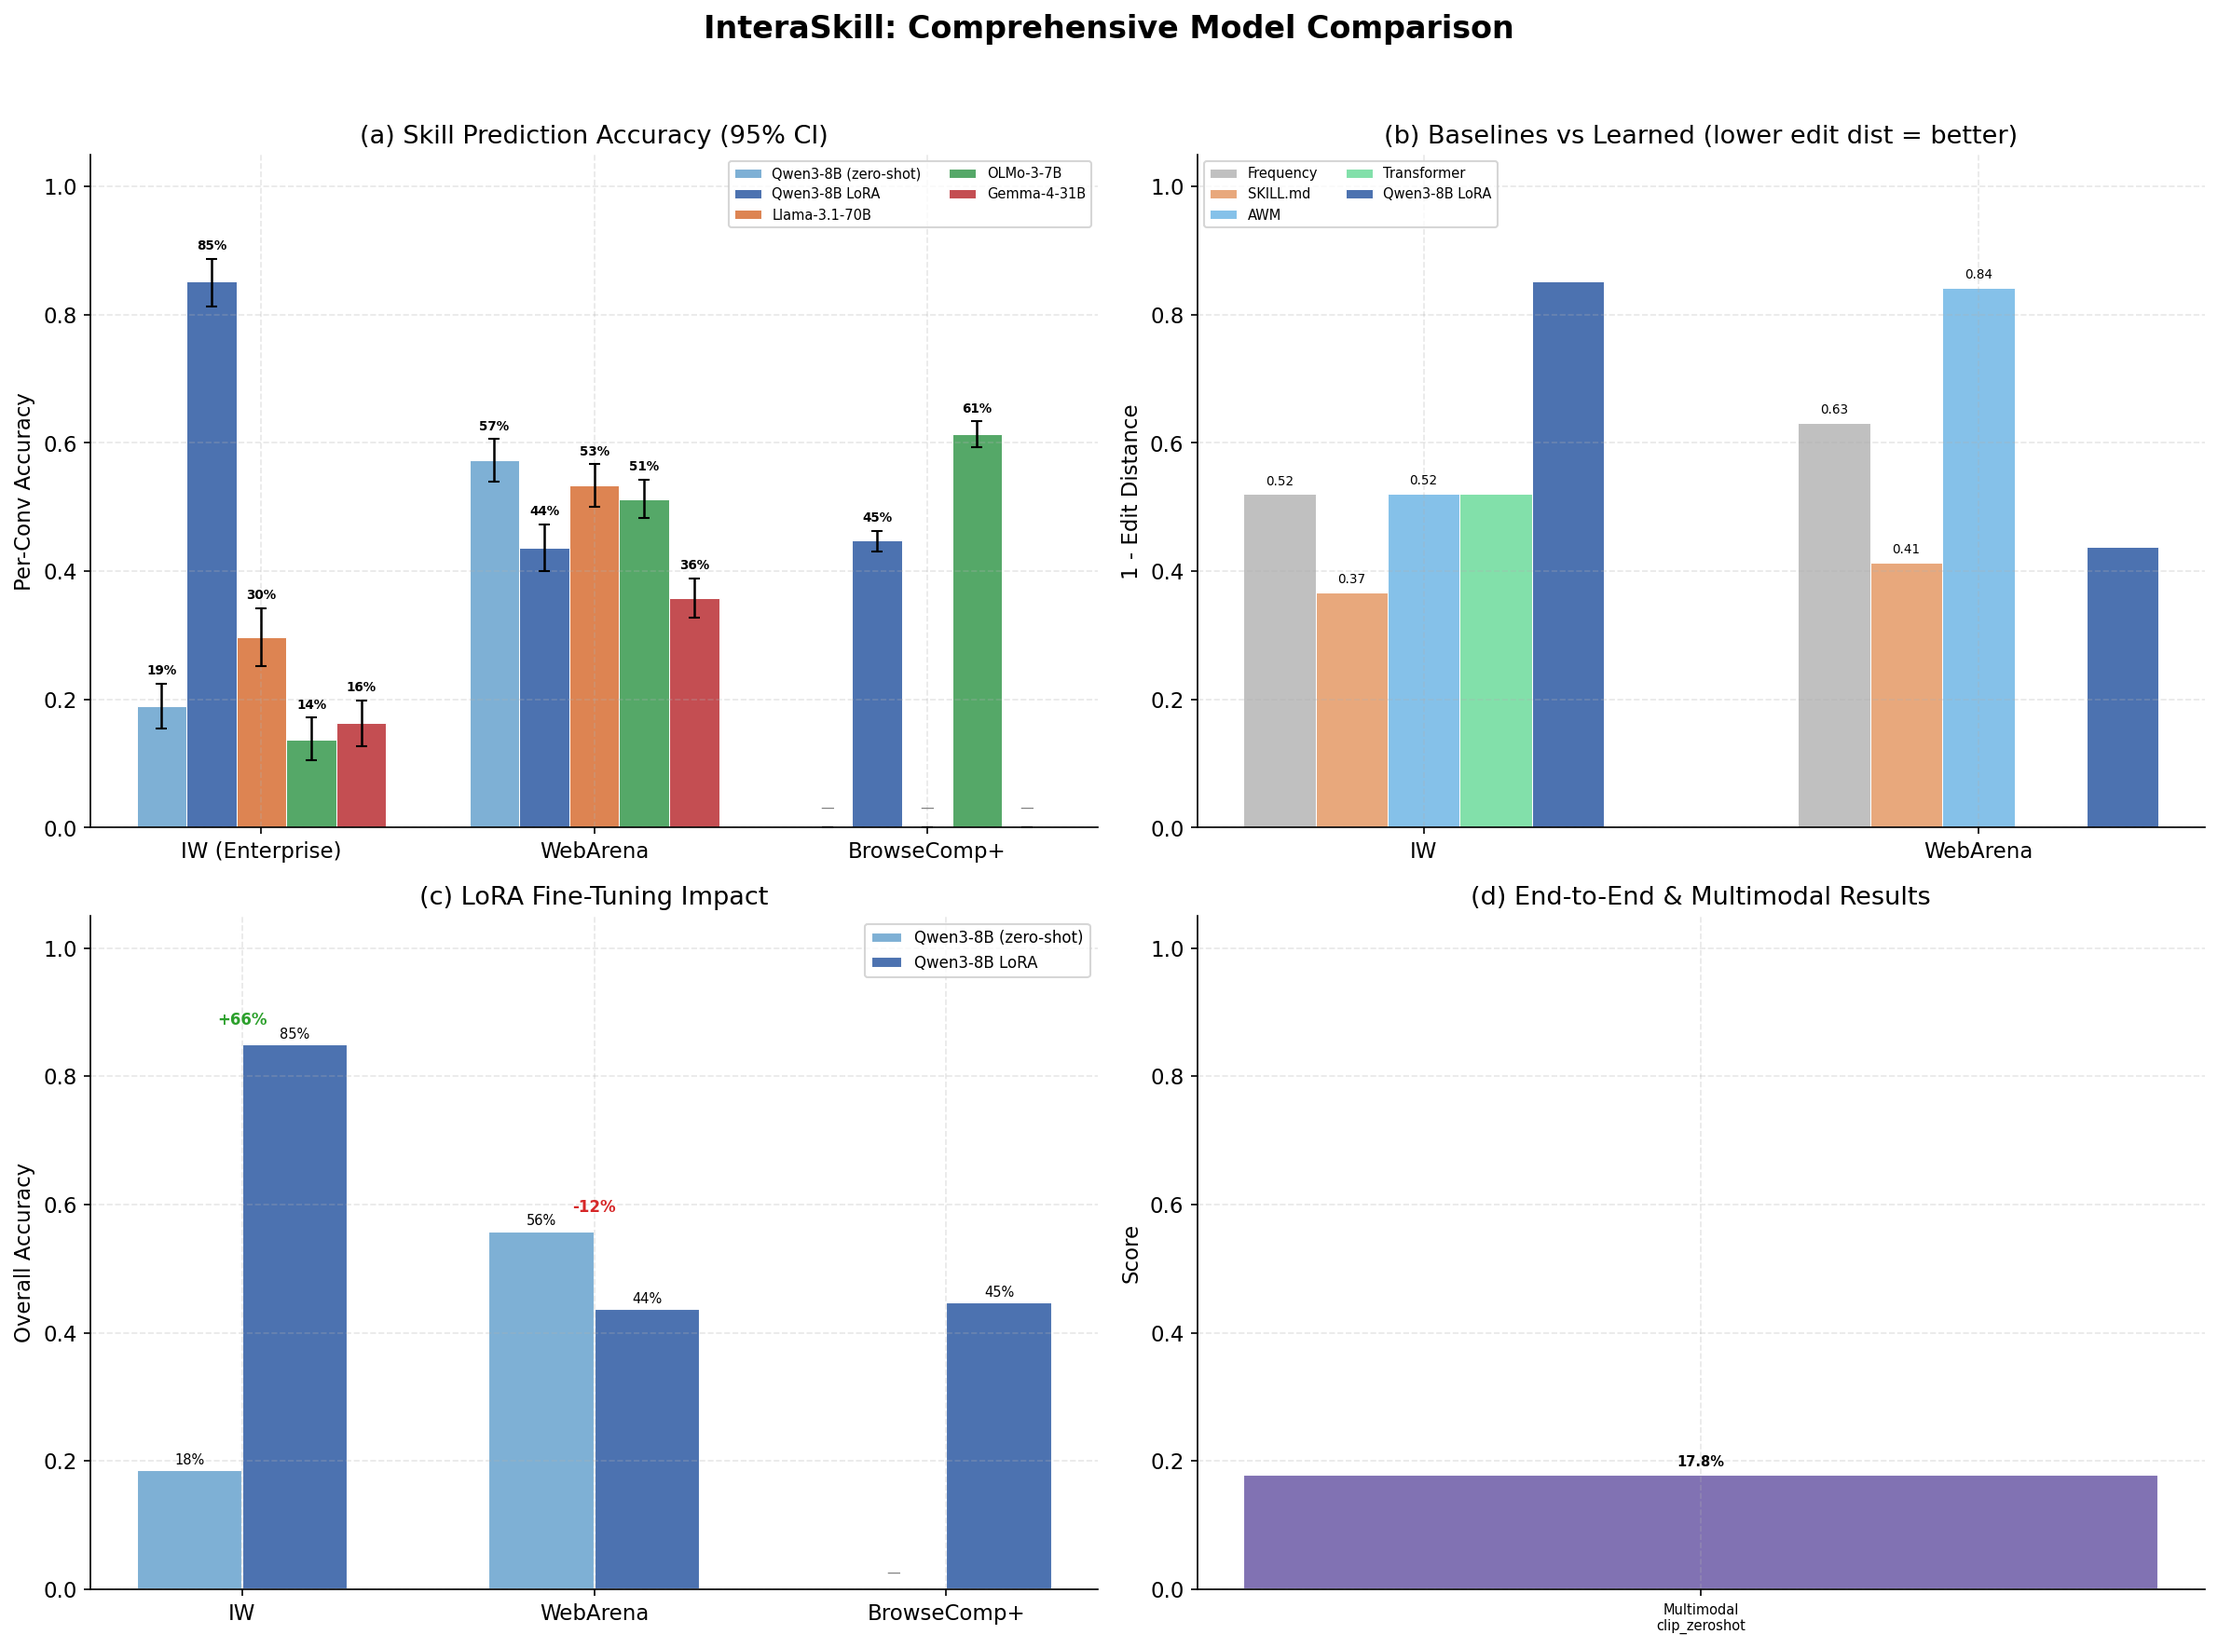
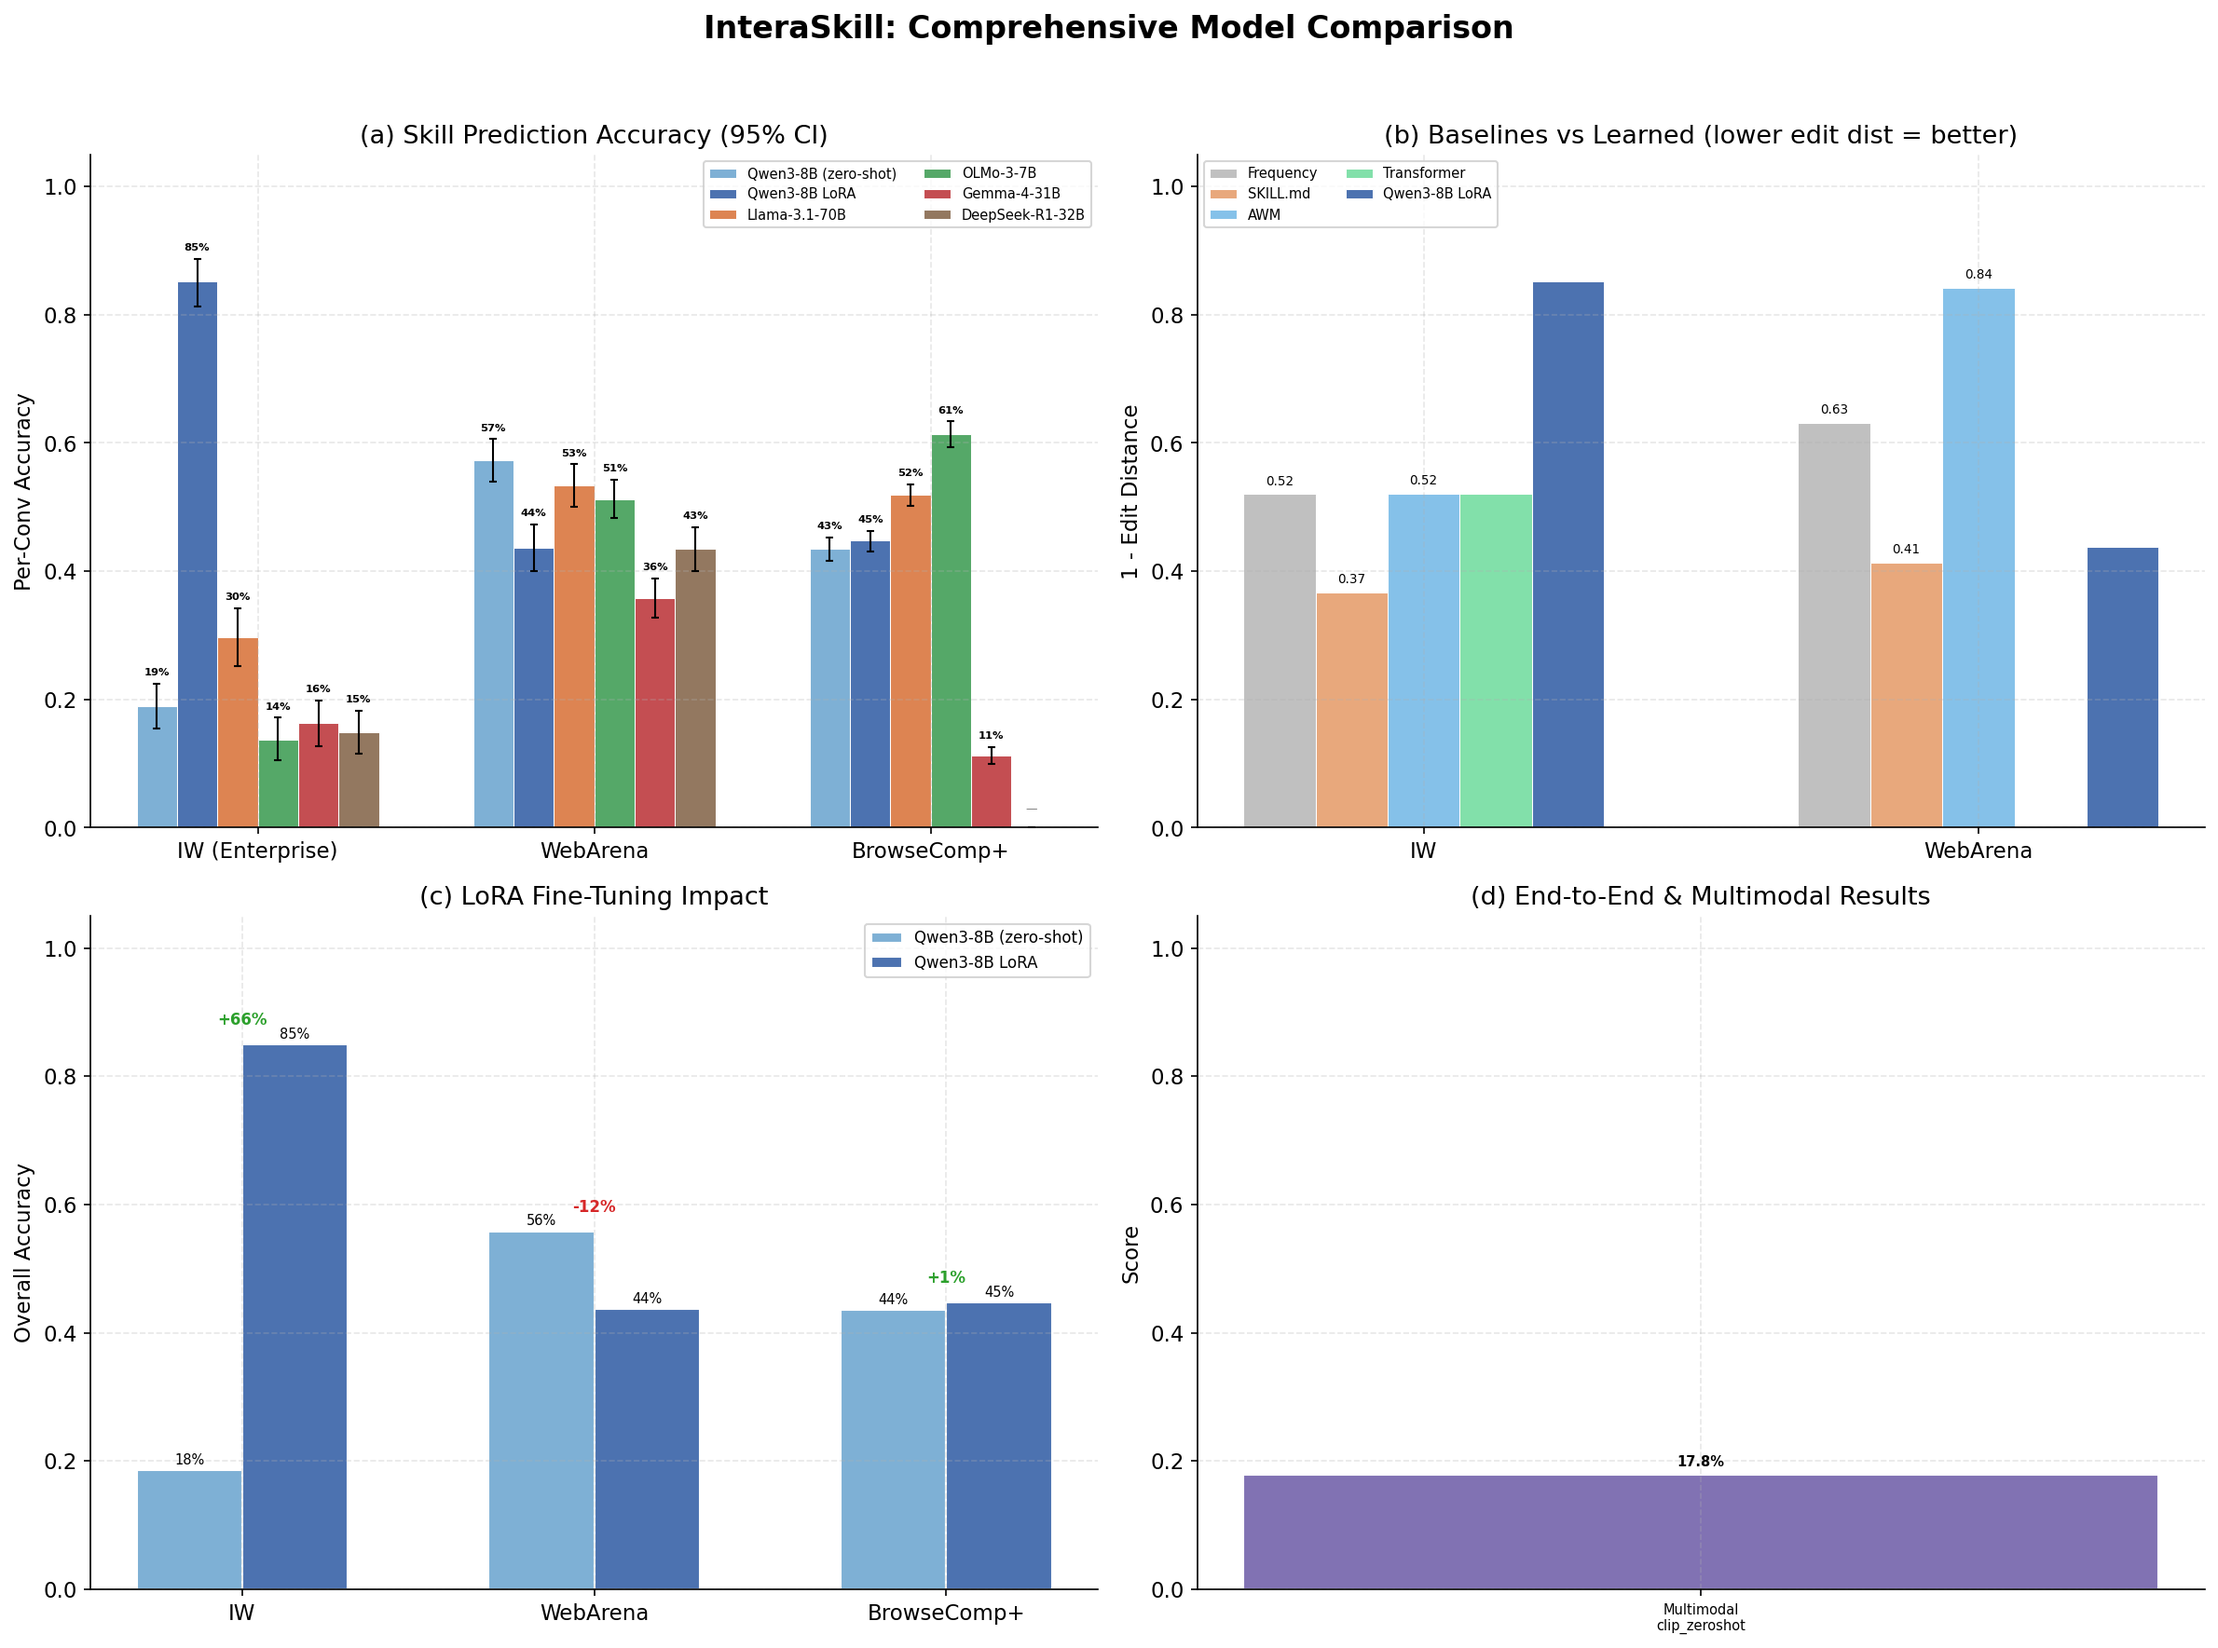
Update figures with DeepSeek-R1-Distill-32B (6 models total)
All models now shown across IW/WebArena/BrowseComp+:
- Qwen3-8B zero-shot/LoRA, Llama-3.1-70B, OLMo-3-7B, Gemma-4-31B
- NEW: DeepSeek-R1-Distill-Qwen-32B (IW=14.2%, WA=45.1%)
- Fallback to metrics file when predictions file unavailable
- Adjusted bar width for 6-model layout

diff --git a/scripts/plot_model_comparison.py b/scripts/plot_model_comparison.py
@@ -40,6 +40,7 @@ COLORS = {
     "Llama-3.1-70B": "#DD8452",
     "OLMo-3-7B": "#55A868",
     "Gemma-4-31B": "#C44E52",
+    "DeepSeek-R1-32B": "#937860",
     "Qwen3-VL-8B": "#8172B3",
     "CLIP zero-shot": "#CCB974",
 }
@@ -52,6 +53,7 @@ SKILL_PRED_MODELS = {
     "Llama-3.1-70B": "llama3.1-70b",
     "OLMo-3-7B": "olmo-3-1025-7b",
     "Gemma-4-31B": "gemma4-31b",
+    "DeepSeek-R1-32B": "deepseek-r1-distill-qwen-32b",
 }
 
 SKILL_PRED_DATASETS = {
@@ -110,7 +112,7 @@ def plot_skill_prediction(ax):
     n_models = len(model_names)
     n_datasets = len(dataset_keys)
 
-    bar_width = 0.15
+    bar_width = 0.12
     x = np.arange(n_datasets)
 
     for i, model_name in enumerate(model_names):
@@ -120,9 +122,17 @@ def plot_skill_prediction(ax):
         for ds in dataset_keys:
             preds = load_predictions(short_name, ds)
             if preds is None:
-                means.append(0)
-                ci_lo.append(0)
-                ci_hi.append(0)
+                # Fallback: try loading from metrics file (no predictions file)
+                metrics = load_metrics(short_name, ds)
+                if metrics:
+                    acc = metrics["overall_accuracy"]
+                    means.append(acc)
+                    ci_lo.append(0)
+                    ci_hi.append(0)
+                else:
+                    means.append(0)
+                    ci_lo.append(0)
+                    ci_hi.append(0)
                 continue
             accs = per_conversation_accuracy(preds)
             mean, lo, hi = bootstrap_ci(accs)
@@ -136,21 +146,21 @@ def plot_skill_prediction(ax):
         offset = (i - (n_models - 1) / 2) * bar_width
 
         bars = ax.bar(x + offset, means, bar_width,
-                       yerr=errs, capsize=3,
+                       yerr=errs, capsize=2,
                        label=model_name, color=color,
                        edgecolor="white", linewidth=0.5,
-                       error_kw={"linewidth": 1.2})
+                       error_kw={"linewidth": 1.0})
 
         for j, (bar, m) in enumerate(zip(bars, means)):
             if m > 0:
                 ax.text(bar.get_x() + bar.get_width() / 2,
                         bar.get_height() + errs[1, j] + 0.01,
                         f"{m:.0%}", ha="center", va="bottom",
-                        fontsize=6.5, fontweight="bold")
+                        fontsize=5.5, fontweight="bold")
             else:
                 ax.text(bar.get_x() + bar.get_width() / 2, 0.02,
                         "—", ha="center", va="bottom",
-                        fontsize=7, color="gray")
+                        fontsize=6, color="gray")
 
     ax.set_ylabel("Per-Conv Accuracy")
     ax.set_title("(a) Skill Prediction Accuracy (95% CI)")
